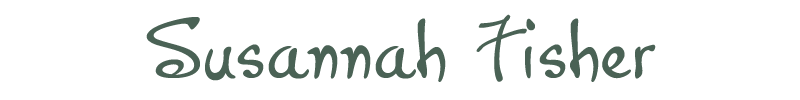
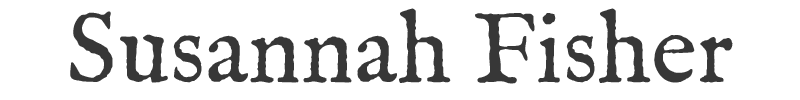
fonts

Changed region(s): [[0.0625, 0.09, 0.5625, 0.84], [0.5938, 0.09, 0.9375, 0.84]]

diff --git a/layouts/partials/header.html b/layouts/partials/header.html
@@ -11,16 +11,20 @@
 
     <!-- navbar -->
     <nav class="navbar navbar-expand-lg navbar-white bg-transparent pl-0">
-      <a class="navbar-brand mobile-view" href="{{ .Site.BaseURL }}"><img class="img-fluid"
-          src="{{ .Site.Params.logo | absURL }}" alt="{{ .Site.Title }}"></a>
+      <!-- <a class="navbar-brand mobile-view" href="{{ .Site.BaseURL }}"><img class="img-fluid"
+          src="{{ .Site.Params.logo | absURL }}" alt="{{ .Site.Title }}"></a> -->
+
+      <a class="navbar-brand mobile-view" href="{{ .Site.BaseURL }}">{{ .Site.Title }}</a>
       <button class="navbar-toggler border-0" type="button" data-toggle="collapse" data-target="#navigation">
         <i class="ti-menu"></i>
       </button>
 
       <div class="collapse navbar-collapse text-center navstack" id="navigation">
 
-        <a class="navbar-brand desktop-view" href="{{ .Site.BaseURL }}"><img class="img-fluid"
-          src="{{ .Site.Params.logo | absURL }}" alt="{{ .Site.Title }}"></a></a>
+        <!-- <a class="navbar-brand desktop-view" href="{{ .Site.BaseURL }}"><img class="img-fluid"
+          src="{{ .Site.Params.logo | absURL }}" alt="{{ .Site.Title }}"></a></a> -->
+
+        <a class="navbar-brand desktop-view" href="{{ .Site.BaseURL }}">{{ .Site.Title }}</a>
 
         <ul class="navbar-nav">
           {{ range .Site.Menus.main }}

diff --git a/themes/pou/assets/scss/_typography.scss b/themes/pou/assets/scss/_typography.scss
@@ -1,7 +1,9 @@
 /*  typography */
 // @import url('https://fonts.googleapis.com/css?family=Montserrat:100,200,300,400,500,600,700&display=swap');
 
-@import url('https://fonts.googleapis.com/css2?family=Montserrat:ital,wght@0,100;0,200;0,300;0,400;0,500;0,600;0,700;0,800;0,900;1,100;1,200;1,300;1,400;1,500;1,600;1,700;1,800;1,900&display=swap');
+// @import url('https://fonts.googleapis.com/css2?family=Montserrat:ital,wght@0,100;0,200;0,300;0,400;0,500;0,600;0,700;0,800;0,900;1,100;1,200;1,300;1,400;1,500;1,600;1,700;1,800;1,900&display=swap');
+
+@import url('https://fonts.googleapis.com/css2?family=Cantarell:ital,wght@0,400;0,700;1,400;1,700&family=IM+Fell+English:ital@0;1&display=swap');
 
 body {
   line-height: 1.4;
@@ -21,10 +23,10 @@ p, .paragraph {
 
 .h1, .h2, .h3, .h4, .h5, .h6, h1, h2, h3, h4, h5, h6 {
   color: $header;
-  font-weight: 500;
+  font-weight: 700;
   line-height: 1.3 !important;
   &:not([class^='ti-']) {
-    font-family: $primary-font;
+    font-family: $title-font;
   }
 }
 
@@ -66,7 +68,7 @@ hr {
 
 /* featured post title */
 .font-weight-bold {
-  font-weight: 600 !important;
+  font-weight: 700 !important;
 }
 
 /* reading time meta data */

diff --git a/themes/pou/assets/scss/_variables.scss b/themes/pou/assets/scss/_variables.scss
@@ -22,5 +22,6 @@ $link: $primary-color;
 $link-hover: $moss;
 
 // Font Variables
-$primary-font: 'Montserrat', sans-serif;
+$primary-font: 'Cantarell', sans-serif;
+$title-font: 'IM Fell English', serif;
 $icon-font: 'themify';

diff --git a/layouts/index.html b/layouts/index.html
@@ -12,7 +12,7 @@
 
 <!-- email optin -->
 {{ "<!-- optin -->" | safeHTML }}
-{{ partial "optin.html" . }}
+<!-- {{ partial "optin.html" . }} -->
 <!-- /email optin -->
 
 {{ end }}

diff --git a/themes/pou/assets/scss/templates/_navigation.scss b/themes/pou/assets/scss/templates/_navigation.scss
@@ -48,6 +48,8 @@
 
 .navbar-brand {
   color: $berry;
+  font-family: $title-font;
+  font-size: 45px;
 }
 
 /* custom CSS navbar & footer border */
